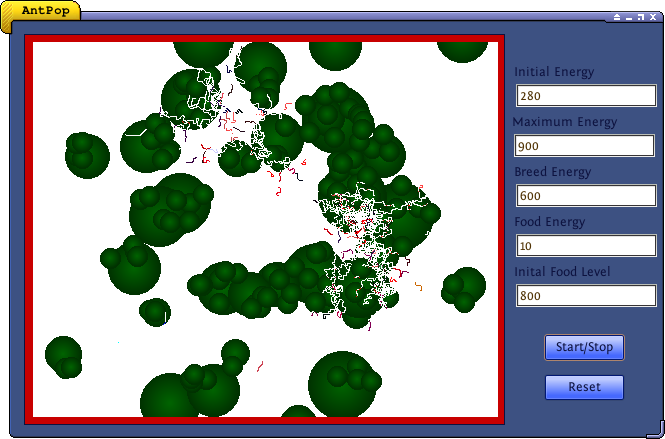
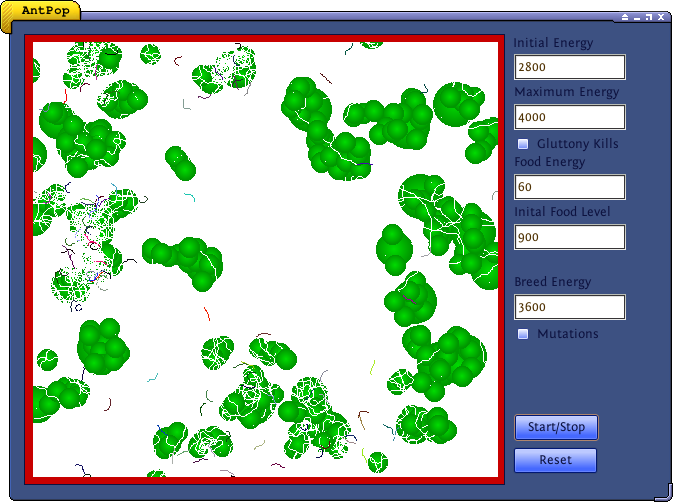
Modified predator behaviour - reduces prey energy rather than killing in one bite. Updated screenshot.

diff --git a/ants.py b/ants.py
@@ -105,8 +105,8 @@ class Ant:
                         if self.predator > prey.predator:
                             for point in prey.path:
                                 if (int(point[0]) == int(self.x)) and (int(point[1]) == int(self.y)):
-                                    self.energy += prey.energy/4
-                                    prey.energy = -1000  # next time it moves, it's dead
+                                    prey.energy /= 2  # take a bite
+                                    self.energy += prey.energy/2 # get half of the energy left
                                     raise StopIteration()
                 except StopIteration:
                     pass
